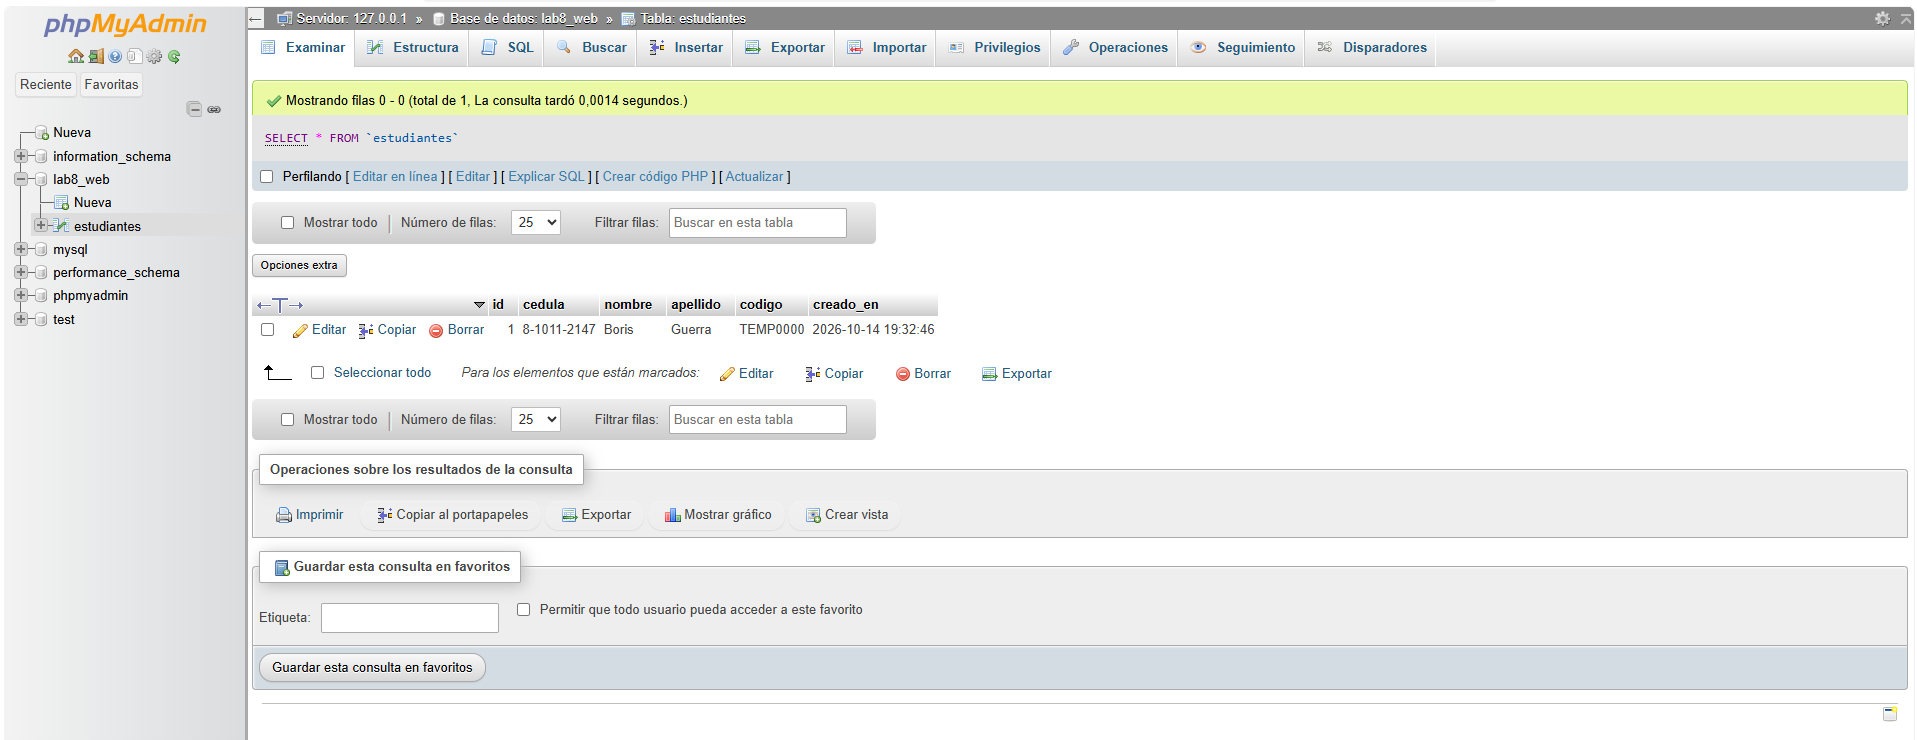
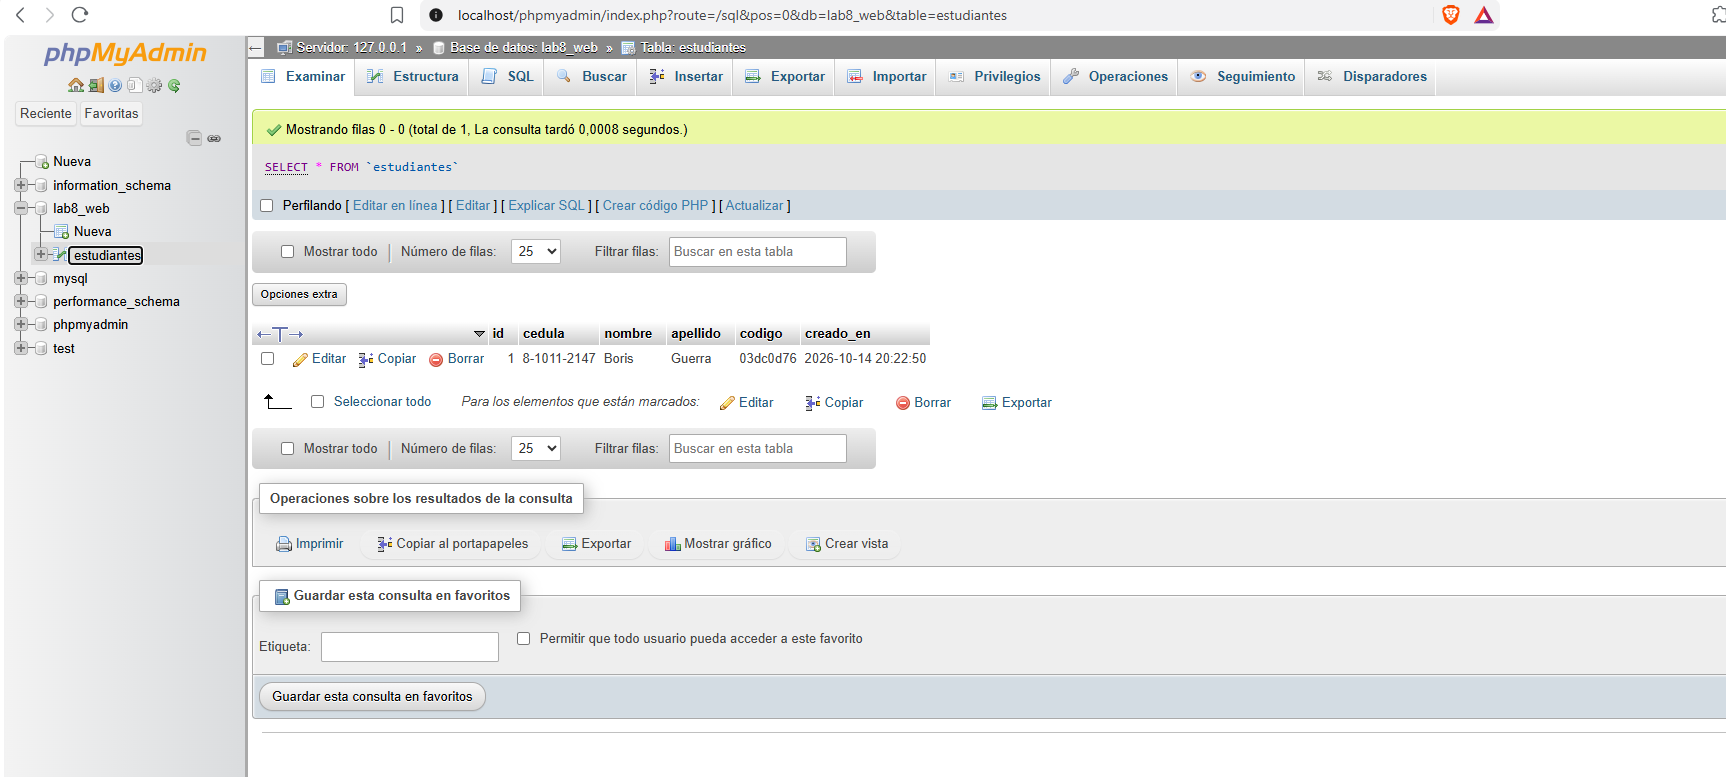
[E3] tipos, conversiones y salida JSON

Changed region(s): [[0.0, 0.0, 1.0, 1.0], [0.9826, 0.6216, 1.0, 0.6527]]

diff --git a/public/tipos.php b/public/tipos.php
@@ -29,5 +29,50 @@ $cociente = intdiv($n1, $n2);
 $nulo  = null;
 $lista = [1, 2, 3];
 
-// Prueba temporal: muestro los valores
-var_dump($codigo, $n1, $n2, $precio, $activo);
+// Muestro tipo y valor de cada variable
+var_dump($codigo, $n1, $precio, $activo, $nulo, $lista);
+
+// Conversión de tipos
+$suma_str = "5" + "10";         // + suma: PHP convierte los textos a números y da 15
+$concat   = "5" . "10";         // el punto une textos, por eso da "510"
+$cast_int = (int) "12abc";      // (int) toma los números del inicio y corta en la letra: 12
+$float_eq = (0.1 + 0.2 == 0.3); // false: 0.1 + 0.2 da 0.30000000000000004 por cómo se guardan los decimales
+$loose    = ("10" == "1e1");    // true: == compara valor y "1e1" es 1x10 = 10
+$strict   = ("10" === "1e1");   // false: === exige mismo tipo y mismo texto, y son textos distintos
+
+// Arreglo final para el autograde
+$resultado = [
+    'codigo'   => $codigo,
+    'n1'       => $n1,
+    'n2'       => $n2,
+    'suma'     => $suma,
+    'division' => $division,
+    'resto'    => $resto,
+    'cociente' => $cociente,
+    'precio'   => $precio,
+    'activo'   => $activo,
+    'tipos' => [
+        'codigo' => gettype($codigo),
+        'n1'     => gettype($n1),
+        'precio' => gettype($precio),
+        'activo' => gettype($activo),
+        'nulo'   => gettype($nulo),
+        'lista'  => gettype($lista),
+    ],
+    'juggling' => [
+        'suma_str' => $suma_str,
+        'concat'   => $concat,
+        'cast_int' => $cast_int,
+        'float_eq' => $float_eq,
+        'loose'    => $loose,
+        'strict'   => $strict,
+    ],
+    'constantes' => [
+        'SEMILLA_LAB8' => constant('SEMILLA_LAB8'),
+        'LAB_NUMERO'   => LAB_NUMERO,
+        // Intento redefinir la constante: devuelve false porque una constante no se puede cambiar
+        'redefinir'    => @define('SEMILLA_LAB8', 'otra'),
+    ],
+];
+
+echo "\n##JSON## " . json_encode($resultado) . "\n";
